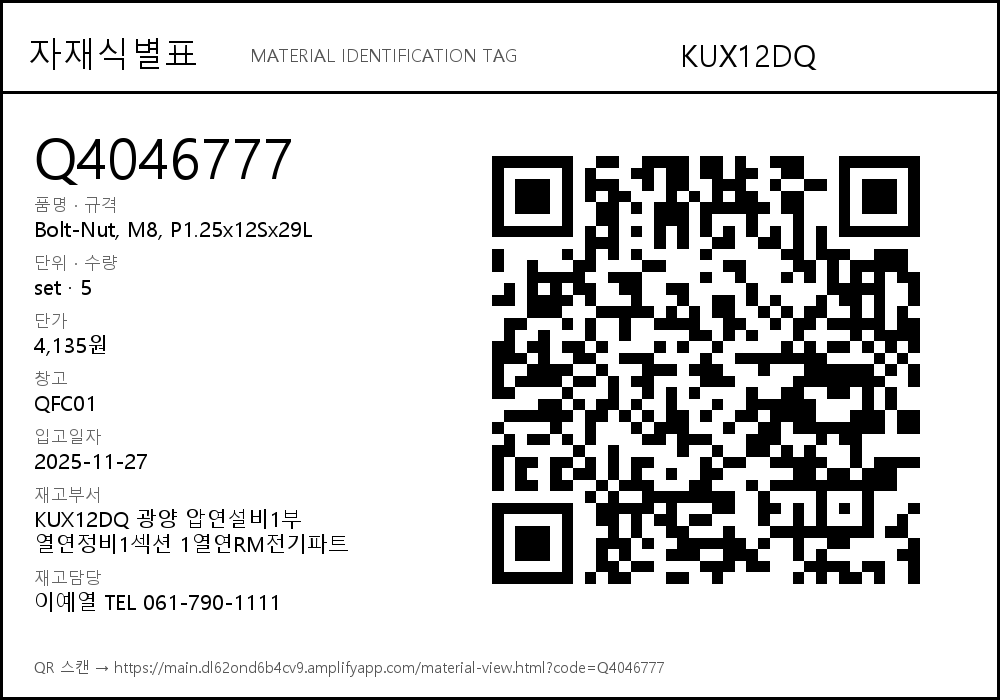
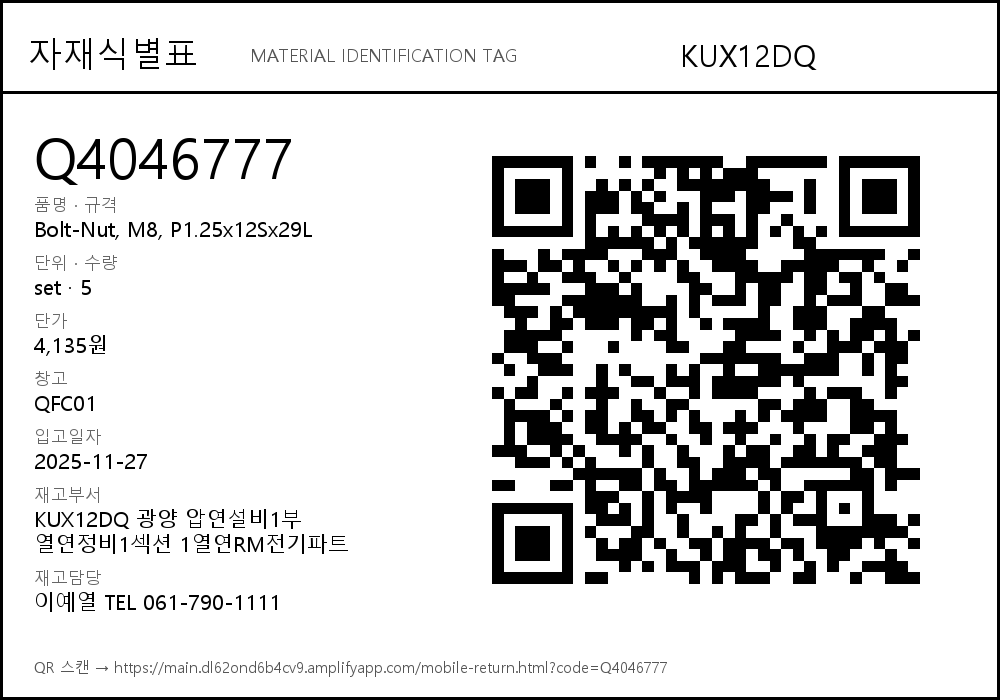
QR 이 모바일 반납 화면을 바로 열게 한다
QR 에 담는 주소를 mobile-return.html?code=... 로 바꿨다. 스캔하면 1단계(QR 스캔)를
건너뛰고 2단계(자재정보 초안 확인)부터 시작한다.

  · make_qr.py --page 로 어느 화면을 열지 고른다 · 기본은 모바일 반납이고,
    자재 확인 화면(취소 · 반납 · 확인 팝업)을 거치게 하려면
    --page material-view.html 로 만든다 (그 화면의 확인이 같은 주소로 이어진다)
  · QRDB.url(code, abs, page) 도 같은 기본값을 쓴다
  · 반납 화면의 QR 카드가 실제 주소를 적고, 두 경로를 각각 열 수 있게 뒀다

Changed region(s): [[0.465, 0.21, 0.93, 0.84], [0.434, 0.93, 0.682, 0.96]]

diff --git a/return.html b/return.html
@@ -49,13 +49,15 @@
         <section class="card">
           <p class="gt"><span>스마트 반납 QR</span><span class="gt-sub">현장용</span></p>
           <div class="qrbox" id="qr"></div>
-          <p class="qr-title">자재식별표 QR 을 찍으면 자재 확인 화면이 열립니다</p>
+          <p class="qr-title">자재식별표 QR 을 찍으면 모바일 반납 2단계가 열립니다</p>
           <p class="qr-sub">QR 에는 자재코드가 주소로 들어 있습니다 ·
-            <code id="qrurl">material-view.html?code=Q0000000</code><br>
-            식별표 값을 확인하고 <b>반납</b> 을 누르면 모바일 반납 2단계로 이어집니다 ·
-            <b>위 그림은 자리표시입니다</b> (인코더 연동 예정)</p>
-          <a class="btn line" href="material-view.html?code=Q4046777"
+            <code id="qrurl">mobile-return.html?code=Q0000000</code><br>
+            1단계(QR 스캔)를 건너뛰고 자재정보 초안 확인부터 시작합니다 ·
+            <b>위 그림은 자리표시입니다</b> · 실제 QR 은 <code>make_qr.py</code> 가 만듭니다</p>
+          <a class="btn line" href="mobile-return.html?code=Q4046777"
             style="width:100%;margin-top:14px">QR 로 들어온 화면 열기 · Q4046777</a>
+          <a class="btn line" href="material-view.html?code=Q4046777"
+            style="width:100%;margin-top:8px">자재 확인 화면 · 반납 확인 팝업</a>
           <a class="btn line" href="mobile-return.html" style="width:100%;margin-top:8px">
             모바일 반납 화면 열기</a>
         </section>
@@ -277,7 +279,7 @@
   /* QR 이 여는 주소는 배포된 곳에 따라 달라진다. 지금 실행 중인 주소를 그대로 적는다 ·
    * 도메인을 화면에 박아 두면 사내 서버로 옮겼을 때 거짓이 된다 */
   if (el('qrurl') && window.QRDB) {
-    el('qrurl').textContent = QRDB.url('Q0000000', true);
+    el('qrurl').textContent = QRDB.url('Q0000000', true, 'mobile-return.html');
   }
 
   paintAll();

diff --git a/assets/qr-items.js b/assets/qr-items.js
@@ -11,7 +11,8 @@
  * 키는 자재코드 하나다 (PK · Q + 숫자 7자리). 여러 건을 등록해도 구조가 그대로다.
  * 값은 자재식별표에 인쇄된 항목만 담는다 · 없는 칸을 만들지 않는다.
  *
- * QR 이 여는 주소 · <배포된 사이트 주소>/material-view.html?code=Q4046777
+ * QR 이 여는 주소 · <배포된 사이트 주소>/mobile-return.html?code=Q4046777
+ *   (자재 확인 화면을 거치게 하려면 material-view.html?code=... 로 만든다)
  * 도메인은 코드에 박지 않는다 · 화면은 실행 중인 주소(location.origin)를 읽어서 적는다.
  */
 window.QR_ITEMS = {
@@ -73,9 +74,10 @@ window.QRDB = (function () {
 
   /* 이 자재의 QR 주소. 배포된 곳이 어디든 실행 중인 주소를 그대로 쓴다 ·
    * 사내 서버로 옮겨도 화면에 적히는 주소가 맞는다 */
-  function url(code, abs) {
+  function url(code, abs, page) {
     var c = norm(code);
-    var path = 'material-view.html?code=' + encodeURIComponent(c || 'Q0000000');
+    var path = (page || 'mobile-return.html') +
+      '?code=' + encodeURIComponent(c || 'Q0000000');
     if (!abs) { return path; }
     try {
       var base = window.location.href.replace(/[^/]*$/, '');

diff --git a/make_qr.py b/make_qr.py
@@ -1,13 +1,15 @@
 # -*- coding: utf-8 -*-
 """자재식별표에 붙일 QR 을 만든다.
 
-QR 에 담는 값 · <배포 주소>/material-view.html?code=Q0000000
-스캔하면 브라우저가 그 화면을 열고, 화면이 code 파라미터를 읽어 자재를 찾는다.
+QR 에 담는 값 · <배포 주소>/mobile-return.html?code=Q0000000
+스캔하면 브라우저가 모바일 반납 화면을 열고, code 파라미터를 읽어 1단계(QR 스캔)를
+건너뛰고 2단계(자재정보 초안 확인)부터 시작한다.
 
 사용법 ·
     python -B make_qr.py                                  기본값으로 만든다
     python -B make_qr.py --code Q4046777                  자재 하나
     python -B make_qr.py --base http://192.168.0.10:8130  사내망 · 노트북 주소
+    python -B make_qr.py --page material-view.html        자재 확인 화면으로 보내기
     python -B make_qr.py --all                             qr-items.js 에 등록된 전부
 
 내는 것 (qr/ 폴더) ·
@@ -35,7 +37,9 @@ OUT = os.path.join(ROOT, 'qr')
 
 # 배포된 사이트 주소. 코드 안에 도메인을 박지 않으려고 인자로 받고, 기본값만 여기 둔다
 DEFAULT_BASE = 'https://main.dl62ond6b4cv9.amplifyapp.com'
-PAGE = 'material-view.html'
+# QR 이 여는 화면 · 모바일 반납으로 바로 보낸다 (code 가 있으면 2단계부터 시작한다).
+# 자재 확인 화면을 거치게 하려면 --page material-view.html 로 만든다
+DEFAULT_PAGE = 'mobile-return.html'
 
 # 인쇄용 · 현장에서 장갑 끼고 폰으로 찍는다. 한 칸을 두껍게 두어야 잘 읽힌다
 SCALE = 16          # QR 한 칸 = 16px
@@ -71,12 +75,12 @@ def font(size, bold=False):
     return ImageFont.load_default()
 
 
-def payload(base, code):
-    return base.rstrip('/') + '/' + PAGE + '?code=' + code
+def payload(base, code, page):
+    return base.rstrip('/') + '/' + page + '?code=' + code
 
 
-def make_one(code, item, base):
-    url = payload(base, code)
+def make_one(code, item, base, page):
+    url = payload(base, code, page)
     qr = segno.make(url, error=ERROR)
 
     png = os.path.join(OUT, code + '_qr.png')
@@ -220,6 +224,7 @@ def main():
     ap = argparse.ArgumentParser()
     ap.add_argument('--code', default='Q4046777')
     ap.add_argument('--base', default=DEFAULT_BASE)
+    ap.add_argument('--page', default=DEFAULT_PAGE)
     ap.add_argument('--all', action='store_true')
     a = ap.parse_args()
 
@@ -236,7 +241,7 @@ def main():
             print('!! %s 는 assets/qr-items.js 에 없다 · 등록하고 다시 돌려라' % code)
             fail += 1
             continue
-        made = make_one(code, item, a.base)
+        made = make_one(code, item, a.base, a.page)
         bad = check(code, made)
         print('%s · %s' % (code, made['url']))
         print('   버전 %s · 오류복정 %s · 한 변 %d칸 · PNG %dpx'
